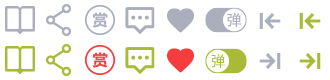
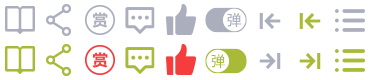
PC bookpeview page add chapterlist

diff --git a/src/css/bookpreview.css b/src/css/bookpreview.css
@@ -211,6 +211,7 @@
 
 .flipbook_wrapper > a:hover {
     opacity: 1;
+    background-color: rgba(238, 238, 238, 0.8);
 }
 
 .flipbook_prevpage_btn {
@@ -449,6 +450,19 @@
     font-size: 13px;
 }
 
+.bp_toolbar_wrapper .praise_par a p{
+    width: 100%;
+    text-align: center;
+    font-size: 12px;
+    color: #0088ff;
+    cursor: pointer;
+}
+
+.bp_toolbar_wrapper .praise_par a p span,
+.bp_toolbar_wrapper .praise_par a:hover p span{
+    color: #0088ff;
+}
+
 .bp_toolbarhandler_item {
     display: none;/*yb 3.9.2*/
     width: 20px;
@@ -492,6 +506,10 @@
     background-position: -204px 0;
 }
 
+.bp_toolbar_wrapper ul .chapter span {
+    background-position: -330px 0;
+}
+
 .bp_toolbar_wrapper ul .product:hover span, .bp_toolbar_wrapper ul .product:hover label, .bp_toolbar_wrapper ul .active .product span, .bp_toolbar_wrapper ul .active .product label {
     background-position: 0 -40px;
     color: #8a9c14;
@@ -529,6 +547,11 @@
 
 .bp_toolbar_wrapper ul .active .barrage span, .bp_toolbar_wrapper ul .active .barrage label {
     background-position: -204px -40px;
+    color: #8a9c14;
+}
+
+.bp_toolbar_wrapper ul .chapter:hover span, .bp_toolbar_wrapper ul .chapter:hover label, .bp_toolbar_wrapper ul .active .chapter span, .bp_toolbar_wrapper ul .active .chapter label {
+    background-position: -330px -40px;
     color: #8a9c14;
 }
 
@@ -710,20 +733,45 @@
 /*8.20 swh add 章节配置信息*/
 
 .chapter_info {
+    display: none;
     position: absolute;
-    left: 12%;
-    top: 150px;
-    width: 140px;
+    left: 100px;
+    /*top: 150px;*/
+    padding: 10px;
+    width: 130px;
     text-align: center;
     z-index: 4;
+    background-color: #fff;
+    border-radius: 8px;
+    box-shadow: 0 2px 8px #333;
+    box-sizing: border-box;
+}
+
+.chapter_info.active {
+    display: block;
+}
+
+.chapter_info::before {
+    content: " ";
+    position: absolute;
+    left: -15px;
+    top: 30px;
+    width: 0;
+    height: 0;
+    border-top: 15px solid transparent;
+    border-bottom: 15px solid transparent;
+    border-right: 15px solid #fff;
 }
 
 .chapter_info h4 {
-    color: #cbe13a;
-    font-size: 18px;
+    color: #666;
+    font-size: 16px;
+    line-height: 2.5;
+    border-bottom: 1px solid #dfdfdf;
 }
 
 .chapter_info h4 span {
+    display: none;
     float: left;
     margin: 3px 0 0 0;
     width: 20px;
@@ -731,7 +779,7 @@
     background: url(../img/imgsprite_yb3_wbl_00000.png) -65px -82px;
 }
 
-.chapter_info ul .active:after {
+/*.chapter_info ul .active:after {
     content: '';
     display: block;
     width: 0;
@@ -742,11 +790,17 @@
     border-left: 5px solid #cbe13a;
     border-top: 4px solid transparent;
     border-bottom: 4px solid transparent;
+}*/
+
+.chapter_info ul{
+    max-height: 485px;
+    overflow-x: hidden;
+    overflow-y: auto;
 }
 
 .chapter_info ul li {
-    margin: 10px auto;
-    padding: 0 15px 0 0;
+    margin: 10px 0 10px 20px;
+    padding: 0 8px 0 0;
     height: 20px;
     line-height: 20px;
     font-size: 12px;
@@ -764,22 +818,23 @@
 .chapter_info ul li a {
     float: right;
     width: 5em;
-    color: #fff;
-    font-size: 13px;
+    color: #333;
+    font-size: 14px;
     overflow: hidden;
     text-overflow: ellipsis;
     white-space: nowrap;
 }
 
 .chapter_info ul li:hover, .chapter_info ul .active a, .chapter_info ul .active {
-    color: #DDF08E;
+    color: #91b423;
+    background-color: #eee;
 }
 
-.chapter_info ul li a:after {
+/*.chapter_info ul li a:after {
     content: '';
     float: right;
     background: url(../img/imgsprite_yb3_wbl_00000.png);
-}
+}*/
 
 .flipbook-viewport .page {
     width: 530px;
@@ -1409,9 +1464,9 @@
 }
 
 @media (min-width: 1600px) and (max-width: 1919px) {
-    .chapter_info {
+   /* .chapter_info {
         left: 5.5%;
-    }
+    }*/
 
     .bp_instrucion_wrapper {
         right: 3%;
@@ -1419,9 +1474,9 @@
 }
 
 @media (min-width: 1440px) and (max-width: 1559px) {
-    .chapter_info {
+   /* .chapter_info {
         left: 2%;
-    }
+    }*/
 
     .flipbook-viewport .page {
         width: 375px;
@@ -1438,9 +1493,9 @@
 }
 
 @media (max-width: 1439px) {
-    .chapter_info {
+    /*.chapter_info {
         left: 0%;
-    }
+    }*/
 }
 
 /*@media (max-width: 1440px){

diff --git a/src/bp_main.html b/src/bp_main.html
@@ -41,6 +41,7 @@
 			<div>操作提示</div>
 			<p class='  '>请将鼠标移至模板右下角点击翻页进行预览</p>
 		</div>
+        <!--yb 3.9.2 修改为弹出显示章节信息-->
 		<div class="chapter_info">
 			<h4><span></span>本书包含章节</h4>
 			<ul>
@@ -234,6 +235,7 @@
 			</div>
 			<ul>
 				<li><a class='product' href="javascript:;"><span></span><label>制作</label></a></li>
+				<li><a class='chapter' href="javascript:;"><span></span><label>章节</label></a></li>
 				<!--<li><a class='print' href="javascript:;"><span></span><label>打印</label></a></li>-->
 				<li>
 					<a class='share' href="javascript:;">
@@ -267,7 +269,7 @@
                     <a class="comment" href="javascript:;"><span></span><label>评论</label></a>
                 </li>
                 <li class="praise_par">
-                    <a class="praise" href="javascript:;"><span></span><label>点赞</label></a>
+                    <a class="praise" href="javascript:;"><span></span><label>点赞</label><p>(<span>12</span>人)</p></a>
                 </li>
                 <li>
                     <a class="barrage" href="javascript:;"><span></span><label>弹幕</label></a>
@@ -1119,6 +1121,9 @@
 				}else if($this.hasClass('comment')){
                     $thisLi.siblings().not('.praise_par').removeClass('active');
                     popupCommentDialog();
+                }else if($this.hasClass('chapter')){
+                    $thisLi.siblings().not('.praise_par').removeClass('active');
+                    popChapterList();
                 }else if ($thisLi.hasClass('active')) {
 					$thisLi.removeClass('active').siblings().removeClass('active');
 				} else {
@@ -1129,6 +1134,8 @@
                         $thisLi.siblings().not('.praise_par').removeClass('active');
                     }
 				}
+                /*$('.bp_toolbar_wrapper').addClass('shrink').removeClass('active');
+                $('.bp_slidefold_btn').addClass('fold').removeClass('open');*/
 			});
 
 			setTimeout(function() {
@@ -1356,7 +1363,7 @@
                     return (windowHeight - $(this).height()) / 2;
                 }
             });
-            //点击评论弹窗周围关闭打赏浮层
+            //点击评论弹窗周围关闭评论浮层
             commentContainer.on('click', function(e) {
                 if ($(e.target).closest('.bp_comment_wrapper').length == 0) {
                     $('.bp_comment_container').removeClass('active');
@@ -1365,6 +1372,22 @@
             commentContainer.find('.closebtn').click(function(){
                 commentContainer.removeClass('active');
             });
+        }
+
+        //弹出章节列表
+        function popChapterList(){
+            var windowHeight=$(window).height(),
+                    commentContainer=$('.chapter_info');
+            if(commentContainer.hasClass('active')){
+                commentContainer.removeClass('active');
+            }else{
+                commentContainer.addClass('active');
+                commentContainer.css({
+                    'margin-top': function() {
+                        return (windowHeight - $(this).height()) / 2;
+                    }
+                });
+            }
         }
 	</script>
 </body>
